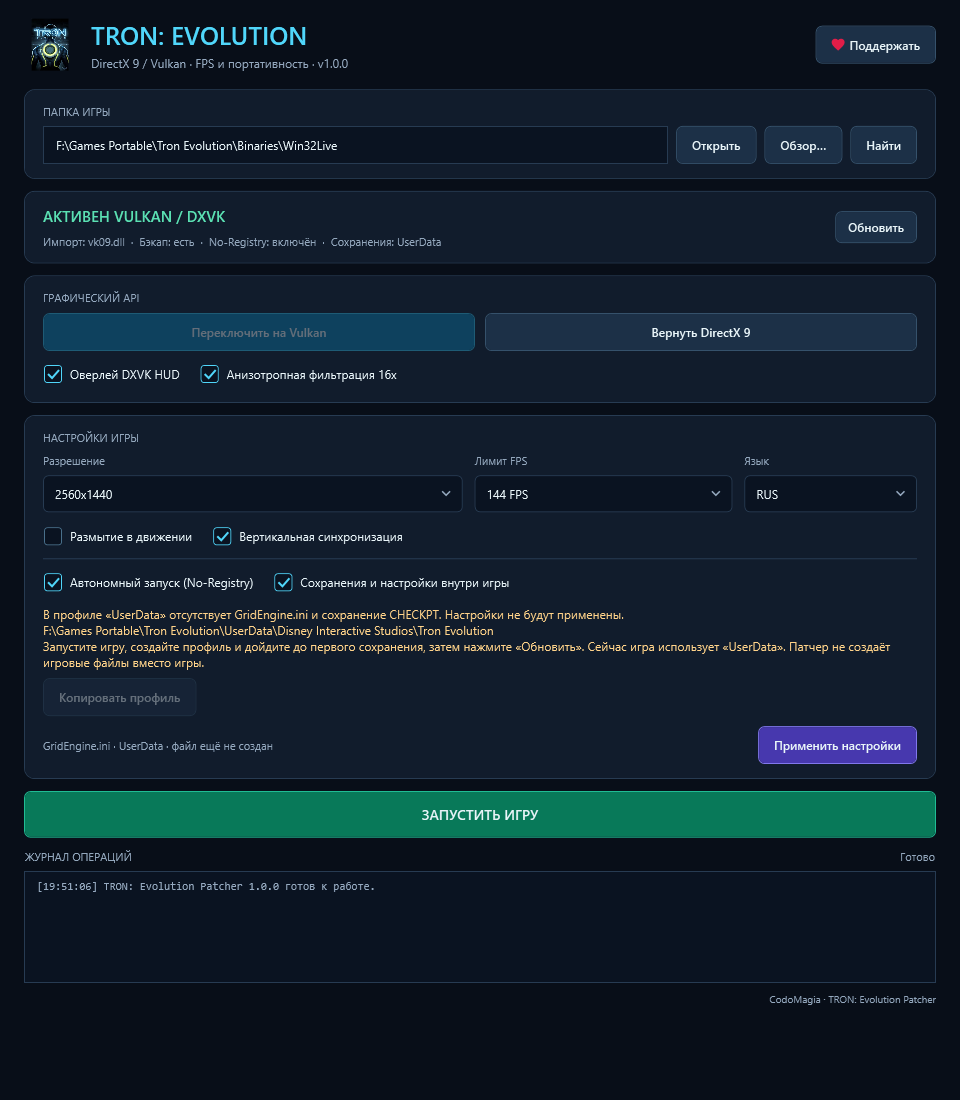
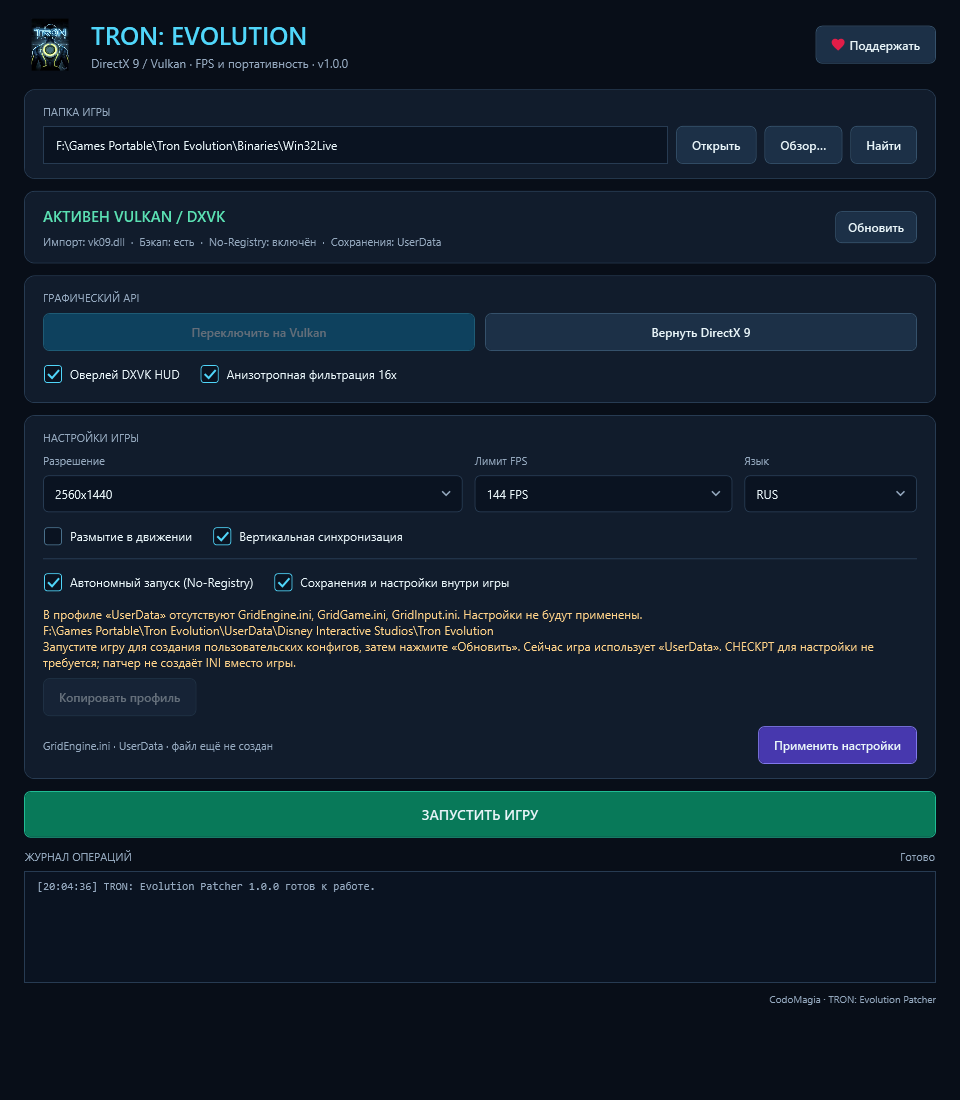
Allow game-created configuration before first checkpoint

Changed region(s): [[0.0625, 0.5564, 0.6875, 0.6182], [0.7812, 0.5873, 0.9062, 0.6182], [0.7188, 0.5873, 0.75, 0.6182]]

diff --git a/src/TronEvolutionPatcher/Services/GameProfileService.cs b/src/TronEvolutionPatcher/Services/GameProfileService.cs
@@ -31,11 +31,15 @@ namespace TronEvolutionPatcher.Services
             var result = new GameProfileStatus { DirectoryPath = profile };
             if (!Directory.Exists(profile)) return result;
             var engine = Path.Combine(profile, "UnrealEngine3", "GridGame", "Config", "GridEngine.ini");
+            var game = Path.Combine(Path.GetDirectoryName(engine), "GridGame.ini");
+            var input = Path.Combine(Path.GetDirectoryName(engine), "GridInput.ini");
             foreach (var path in Files(profile))
             {
                 result.ContainsFiles = true;
                 if (new FileInfo(path).Length == 0) continue;
                 if (string.Equals(path, engine, StringComparison.OrdinalIgnoreCase)) result.HasEngineIni = true;
+                if (string.Equals(path, game, StringComparison.OrdinalIgnoreCase)) result.HasGameIni = true;
+                if (string.Equals(path, input, StringComparison.OrdinalIgnoreCase)) result.HasInputIni = true;
                 if (string.Equals(Path.GetFileName(path), "CHECKPT", StringComparison.OrdinalIgnoreCase) &&
                     path.StartsWith(Path.Combine(profile, "SaveData") + Path.DirectorySeparatorChar, StringComparison.OrdinalIgnoreCase))
                     result.HasCheckpoint = true;
@@ -62,14 +66,12 @@ namespace TronEvolutionPatcher.Services
             var target = Inspect(directory, portable);
             if (target.IsInitialized) return;
             var source = Inspect(directory, !portable);
-            var missing = !target.HasEngineIni && !target.HasCheckpoint ? "GridEngine.ini и сохранение CHECKPT" :
-                !target.HasEngineIni ? "GridEngine.ini" : "сохранение CHECKPT";
-            var message = "Профиль не подготовлен: отсутствует " + missing + "." + Environment.NewLine + target.DirectoryPath;
+            var message = "Конфигурация профиля не подготовлена: отсутствуют " + MissingConfigurations(target) + "." + Environment.NewLine + target.DirectoryPath;
             if (source.IsInitialized)
                 message += Environment.NewLine + "В другом расположении найден профиль: " + source.DirectoryPath + Environment.NewLine +
                     (target.ContainsFiles ? "Целевая папка не пустая. Выберите существующий профиль или сохраните неполный профиль отдельно перед переносом. Профили не смешиваются." :
                     "Нажмите «Копировать профиль», затем повторите применение настроек.");
-            else message += Environment.NewLine + "Запустите игру, создайте профиль и дойдите до первого сохранения. Затем нажмите «Обновить». Патчер не создаёт игровые сохранения или пользовательские INI вместо игры.";
+            else message += Environment.NewLine + "Запустите игру и дождитесь создания пользовательских конфигов, затем нажмите «Обновить». Сохранение прогресса CHECKPT для настройки не требуется. Патчер не создаёт пользовательские INI вместо игры.";
             throw new IOException(message);
         }
 
@@ -77,7 +79,7 @@ namespace TronEvolutionPatcher.Services
         {
             var source = Inspect(directory, !toPortable);
             var target = Inspect(directory, toPortable);
-            if (!source.IsInitialized) throw new IOException("В исходной папке нет GridEngine.ini и непустого CHECKPT. Сначала создайте профиль в игре: " + source.DirectoryPath);
+            if (!source.IsInitialized) throw new IOException("В исходной папке не хватает пользовательских конфигов: " + MissingConfigurations(source) + ". Сначала запустите игру для их создания: " + source.DirectoryPath);
             if (target.ContainsFiles) throw new IOException("Целевой профиль не пустой. Копирование без смешивания и перезаписи невозможно: " + target.DirectoryPath);
             var migration = new PortableProfileMigration();
             var sourceRoot = Root(directory, !toPortable); var targetRoot = Root(directory, toPortable);
@@ -94,6 +96,15 @@ namespace TronEvolutionPatcher.Services
                 return result;
             }
             catch { ProfileDirectories.RemoveNewEmpty(created); throw; }
+        }
+
+        public static string MissingConfigurations(GameProfileStatus profile)
+        {
+            var missing = new List<string>();
+            if (!profile.HasEngineIni) missing.Add("GridEngine.ini");
+            if (!profile.HasGameIni) missing.Add("GridGame.ini");
+            if (!profile.HasInputIni) missing.Add("GridInput.ini");
+            return string.Join(", ", missing);
         }
     }
 }

diff --git a/tests/TronEvolutionPatcher.Tests/PatcherBackendTests.cs b/tests/TronEvolutionPatcher.Tests/PatcherBackendTests.cs
@@ -33,6 +33,8 @@ namespace TronEvolutionPatcher.Tests
             using (var temp = new TemporaryDirectory())
             {
                 var exe = temp.Write("Game/Binaries/Win32Live/GridGame.exe", PeFixture.Create());
+                temp.WriteText("Documents/" + Ini.Replace("GridEngine.ini", "GridGame.ini"), "game");
+                temp.WriteText("Documents/" + Ini.Replace("GridEngine.ini", "GridInput.ini"), "input");
                 var documents = temp.WriteText("Documents/" + Ini, "[SystemSettings]\nResX=1280");
                 temp.Write("Documents/Disney Interactive Studios/Tron Evolution/SaveData/profile/Save/CHECKPT", new byte[] { 1 });
                 var portable = temp.WriteText("Game/UserData/" + Ini, "[SystemSettings]\nResX=3840");
@@ -56,6 +58,8 @@ namespace TronEvolutionPatcher.Tests
                 var exe = temp.Write("Game/Binaries/Win32Live/GridGame.exe", PortablePeFixture.Create());
                 var directory = Path.GetDirectoryName(exe);
                 var backend = new PatcherBackend(temp.Root, Path.Combine(temp.Root, "Documents"));
+                temp.WriteText("Documents/" + Ini.Replace("GridEngine.ini", "GridGame.ini"), "game");
+                temp.WriteText("Documents/" + Ini.Replace("GridEngine.ini", "GridInput.ini"), "input");
                 var ini = temp.WriteText("Documents/" + Ini, "[SystemSettings]\nResX=1280");
                 temp.Write("Documents/Disney Interactive Studios/Tron Evolution/SaveData/profile/Save/CHECKPT", new byte[] { 1 });
                 using (var locked = new FileStream(ini, FileMode.Open, FileAccess.Read, FileShare.Read))
@@ -86,7 +90,7 @@ namespace TronEvolutionPatcher.Tests
                 var backend = new PatcherBackend(temp.Root, Path.Combine(temp.Root, "Documents"));
                 var error = Assert.Throws<IOException>(() => backend.ApplySettings(directory, new GameSettings(), true, true, false, false));
                 Assert.That(error.Message, Does.Contain("Проверка профиля"));
-                Assert.That(error.Message, Does.Contain("первого сохранения"));
+                Assert.That(error.Message, Does.Contain("создания пользовательских конфигов"));
                 Assert.That(PortableExecutablePatcherTests.Hash(File.ReadAllBytes(exe)), Is.EqualTo(PortableExecutablePatcherTests.Hash(original)));
                 Assert.That(File.Exists(Path.Combine(directory, GameStatusService.BackupName)), Is.False);
                 Assert.That(Directory.Exists(Path.Combine(temp.Root, "Game/UserData")), Is.EqualTo(partialIni));
@@ -102,6 +106,8 @@ namespace TronEvolutionPatcher.Tests
             {
                 var exe = temp.Write("Game/Binaries/Win32Live/GridGame.exe", PortablePeFixture.Create());
                 var directory = Path.GetDirectoryName(exe);
+                temp.WriteText("Documents/" + Ini.Replace("GridEngine.ini", "GridGame.ini"), "game");
+                temp.WriteText("Documents/" + Ini.Replace("GridEngine.ini", "GridInput.ini"), "input");
                 var sourceIni = temp.WriteText("Documents/" + Ini, "[SystemSettings]\nResX=1280");
                 var sourceSave = temp.Write("Documents/Disney Interactive Studios/Tron Evolution/SaveData/profile/Save/CHECKPT", new byte[] { 1, 2 });
                 var backend = new PatcherBackend(temp.Root, Path.Combine(temp.Root, "Documents"));
@@ -113,6 +119,24 @@ namespace TronEvolutionPatcher.Tests
                 Assert.That(backend.Load(directory).Status.UserDirectoryRedirected, Is.True);
                 Assert.That(File.ReadAllText(sourceIni), Does.Contain("ResX=1280"));
                 Assert.That(File.ReadAllBytes(sourceSave), Is.EqualTo(new byte[] { 1, 2 }));
+            }
+        }
+
+        [Test]
+        public void GameCreatedPortableConfigsAllowApplyWithoutAnyCheckpointOrSaveDirectory()
+        {
+            using (var temp = new TemporaryDirectory())
+            {
+                var bytes = PortableExecutablePatcher.Apply(PortablePeFixture.Create(), null, true);
+                var exe = temp.Write("Game/Binaries/Win32Live/GridGame.exe", bytes);
+                foreach (var name in new[] { "GridEngine.ini", "GridGame.ini", "GridInput.ini" })
+                    temp.WriteText("Game/UserData/" + Ini.Replace("GridEngine.ini", name), "[SystemSettings]\nResX=1280");
+                var backend = new PatcherBackend(temp.Root, Path.Combine(temp.Root, "Documents"));
+                var directory = Path.GetDirectoryName(exe);
+                Assert.That(backend.Load(directory).PortableProfile.HasCheckpoint, Is.False);
+                Assert.DoesNotThrow(() => backend.ApplySettings(directory, new GameSettings(), false, true, false, false));
+                Assert.That(File.ReadAllText(Path.Combine(temp.Root, "Game/UserData/" + Ini)), Does.Contain("ResX=1920"));
+                Assert.That(Directory.Exists(Path.Combine(temp.Root, "Game/UserData/Disney Interactive Studios/Tron Evolution/SaveData")), Is.False);
             }
         }
 

diff --git a/tests/TronEvolutionPatcher.Tests/GameProfileServiceTests.cs b/tests/TronEvolutionPatcher.Tests/GameProfileServiceTests.cs
@@ -18,21 +18,25 @@ namespace TronEvolutionPatcher.Tests
         [TestCase(true, false)]
         [TestCase(false, true)]
         [TestCase(true, true)]
-        public void ReadinessRequiresBothUserIniAndNonEmptyCheckpoint(bool ini, bool checkpoint)
+        public void ReadinessRequiresGameGeneratedConfigurationButNotGameplayCheckpoint(bool ini, bool checkpoint)
         {
             using (var temp = new TemporaryDirectory())
             {
-                if (ini) temp.WriteText("Documents/" + Ini, "[SystemSettings]\nResX=1280");
+                if (ini) {
+                    temp.WriteText("Documents/" + Ini, "[SystemSettings]\nResX=1280");
+                    temp.WriteText("Documents/" + Ini.Replace("GridEngine.ini", "GridGame.ini"), "game");
+                    temp.WriteText("Documents/" + Ini.Replace("GridEngine.ini", "GridInput.ini"), "input");
+                }
                 if (checkpoint) temp.Write("Documents/" + Save, new byte[] { 3, 4 });
                 var profile = Service(temp).Inspect(DirectoryFor(temp), false);
-                Assert.That(profile.IsInitialized, Is.EqualTo(ini && checkpoint));
+                Assert.That(profile.IsInitialized, Is.EqualTo(ini));
                 if (!profile.IsInitialized)
                     Assert.Throws<IOException>(() => Service(temp).RequireInitialized(DirectoryFor(temp), false));
             }
         }
 
         [Test]
-        public void EmptySaveAndKeyBindingsAloneAreNotAnExistingSavedGame()
+        public void KeyBindingsAndSingleEngineIniDoNotReplaceMissingConfiguration()
         {
             using (var temp = new TemporaryDirectory())
             {
@@ -52,6 +56,7 @@ namespace TronEvolutionPatcher.Tests
                 var source = toPortable ? "Documents/" : "Game/UserData/";
                 var target = toPortable ? "Game/UserData/" : "Documents/";
                 var exe = temp.Write("Game/Binaries/Win32Live/GridGame.exe", new byte[] { 9, 8, 7 });
+                temp.WriteText(source + Ini.Replace("GridEngine.ini", "GridGame.ini"), "game");
                 var ini = temp.WriteText(source + Ini, "[SystemSettings]\nResX=1280");
                 var save = temp.Write(source + Save, new byte[] { 1, 2, 3 });
                 temp.WriteText(source + Profile + "UnrealEngine3/GridGame/Config/GridInput.ini", "input settings");
@@ -65,10 +70,28 @@ namespace TronEvolutionPatcher.Tests
         }
 
         [Test]
+        public void ConfigurationCanBeCopiedBeforeFirstGameplayCheckpoint()
+        {
+            using (var temp = new TemporaryDirectory())
+            {
+                System.IO.Directory.CreateDirectory(DirectoryFor(temp));
+                foreach (var name in new[] { "GridEngine.ini", "GridGame.ini", "GridInput.ini" })
+                    temp.WriteText("Documents/" + Ini.Replace("GridEngine.ini", name), "game-generated config");
+                Service(temp).Copy(DirectoryFor(temp), true);
+                var target = Service(temp).Inspect(DirectoryFor(temp), true);
+                Assert.That(target.IsInitialized, Is.True);
+                Assert.That(target.HasCheckpoint, Is.False);
+                Assert.That(File.Exists(Path.Combine(temp.Root, "Game/UserData/" + Save)), Is.False);
+            }
+        }
+
+        [Test]
         public void IncompleteNonEmptyTargetIsNotMixedOrOverwritten()
         {
             using (var temp = new TemporaryDirectory())
             {
+                temp.WriteText("Documents/" + Ini.Replace("GridEngine.ini", "GridGame.ini"), "game");
+                temp.WriteText("Documents/" + Ini.Replace("GridEngine.ini", "GridInput.ini"), "input");
                 temp.WriteText("Documents/" + Ini, "source"); temp.Write("Documents/" + Save, new byte[] { 1 });
                 var target = temp.WriteText("Game/UserData/" + Ini, "old partial config");
                 Assert.Throws<IOException>(() => Service(temp).Copy(DirectoryFor(temp), true));
@@ -95,6 +118,8 @@ namespace TronEvolutionPatcher.Tests
         {
             using (var temp = new TemporaryDirectory())
             {
+                temp.WriteText("Documents/" + Ini.Replace("GridEngine.ini", "GridGame.ini"), "game");
+                temp.WriteText("Documents/" + Ini.Replace("GridEngine.ini", "GridInput.ini"), "input");
                 var source = temp.WriteText("Documents/" + Ini, "source config");
                 temp.Write("Documents/" + Save, new byte[] { 1 });
                 System.IO.Directory.CreateDirectory(Path.Combine(temp.Root, "Game"));

diff --git a/tests/TronEvolutionPatcher.Tests/MainViewModelTests.cs b/tests/TronEvolutionPatcher.Tests/MainViewModelTests.cs
@@ -59,7 +59,7 @@ namespace TronEvolutionPatcher.Tests
             {
                 CopyProfileCalls++; CopiedToPortable = toPortable;
                 var target = toPortable ? Current.PortableProfile : Current.DocumentsProfile;
-                target.HasEngineIni = true; target.HasCheckpoint = true; target.ContainsFiles = true;
+                target.HasEngineIni = true; target.HasGameIni = true; target.HasInputIni = true; target.HasCheckpoint = true; target.ContainsFiles = true;
                 return new[] { "Профиль скопирован." };
             }
         }
@@ -220,11 +220,24 @@ namespace TronEvolutionPatcher.Tests
         }
 
         [Test]
+        public async Task CompleteGameConfigurationWithoutCheckpointDoesNotShowMissingProfileWarning()
+        {
+            var backend = new FakeBackend();
+            backend.Current.DocumentsProfile = new GameProfileStatus
+            { HasEngineIni = true, HasGameIni = true, HasInputIni = true, ContainsFiles = true };
+            backend.Current.PortableProfile = new GameProfileStatus();
+            var model = await Loaded(backend);
+            Assert.That(model.ProfileNotice, Is.Empty);
+            Assert.That(model.ApplyCommand.CanExecute(null), Is.True);
+            Assert.That(model.CopyProfileCommand.CanExecute(null), Is.False);
+        }
+
+        [Test]
         public async Task MissingProfileOffersCurrentGameLaunchAndExplicitCopyToSelectedLocation()
         {
             var backend = new FakeBackend();
             backend.Current.DocumentsProfile = new GameProfileStatus
-            { DirectoryPath = @"C:\Documents\Profile", HasEngineIni = true, HasCheckpoint = true, ContainsFiles = true };
+            { DirectoryPath = @"C:\Documents\Profile", HasEngineIni = true, HasGameIni = true, HasInputIni = true, HasCheckpoint = true, ContainsFiles = true };
             backend.Current.PortableProfile = new GameProfileStatus { DirectoryPath = @"C:\Game\UserData\Profile" };
             var model = await Loaded(backend);
             Assert.That(model.ProfileNotice, Is.Empty);
@@ -248,10 +261,12 @@ namespace TronEvolutionPatcher.Tests
             backend.Current.DocumentsProfile = new GameProfileStatus { DirectoryPath = "Documents" };
             backend.Current.PortableProfile = new GameProfileStatus { DirectoryPath = "UserData" };
             var model = await Loaded(backend);
-            Assert.That(model.ProfileNotice, Does.Contain("первого сохранения"));
+            Assert.That(model.ProfileNotice, Does.Contain("пользовательских конфигов"));
             Assert.That(model.CopyProfileCommand.CanExecute(null), Is.False);
             Assert.That(model.LaunchCommand.CanExecute(null), Is.True);
             backend.Current.DocumentsProfile.HasEngineIni = true;
+            backend.Current.DocumentsProfile.HasGameIni = true;
+            backend.Current.DocumentsProfile.HasInputIni = true;
             backend.Current.DocumentsProfile.HasCheckpoint = true;
             backend.Current.PortableProfile.ContainsFiles = true;
             model.UserDirectory = true;

diff --git a/src/TronEvolutionPatcher/ViewModels/MainViewModel.cs b/src/TronEvolutionPatcher/ViewModels/MainViewModel.cs
@@ -128,15 +128,14 @@ namespace TronEvolutionPatcher.ViewModels
                 var target = SelectedProfile;
                 if (target == null || target.IsInitialized) return "";
                 var location = UserDirectory ? "UserData" : "Документы";
-                var missing = !target.HasEngineIni && !target.HasCheckpoint ? "GridEngine.ini и сохранение CHECKPT" :
-                    !target.HasEngineIni ? "GridEngine.ini" : "сохранение CHECKPT";
-                var text = "В профиле «" + location + "» отсутствует " + missing + ". Настройки не будут применены.\n" + target.DirectoryPath;
+                var missing = GameProfileService.MissingConfigurations(target);
+                var text = "В профиле «" + location + "» отсутствуют " + missing + ". Настройки не будут применены.\n" + target.DirectoryPath;
                 if (OtherProfile?.IsInitialized == true)
                     return text + "\nНайден другой профиль: " + OtherProfile.DirectoryPath +
                         (target.ContainsFiles ? "\nЦелевая папка не пустая: выберите существующий профиль или сохраните неполный профиль отдельно перед копированием. Перезапись и смешивание отключены." :
                         "\nНажмите «Копировать профиль»: источник останется на месте. Затем примените настройки.");
-                return text + "\nЗапустите игру, создайте профиль и дойдите до первого сохранения, затем нажмите «Обновить». Сейчас игра использует «" +
-                    (snapshot.Status.UserDirectoryRedirected ? "UserData" : "Документы") + "». Патчер не создаёт игровые файлы вместо игры.";
+                return text + "\nЗапустите игру для создания пользовательских конфигов, затем нажмите «Обновить». Сейчас игра использует «" +
+                    (snapshot.Status.UserDirectoryRedirected ? "UserData" : "Документы") + "». CHECKPT для настройки не требуется; патчер не создаёт INI вместо игры.";
             }
         }
         public bool HudEnabled { get => hud; set { if (Set(ref hud, value)) QueueDxvkUpdate(); } }

diff --git a/src/TronEvolutionPatcher/Models/GameProfileStatus.cs b/src/TronEvolutionPatcher/Models/GameProfileStatus.cs
@@ -4,8 +4,10 @@ namespace TronEvolutionPatcher.Models
     {
         public string DirectoryPath { get; internal set; }
         public bool HasEngineIni { get; internal set; }
+        public bool HasGameIni { get; internal set; }
+        public bool HasInputIni { get; internal set; }
         public bool HasCheckpoint { get; internal set; }
         public bool ContainsFiles { get; internal set; }
-        public bool IsInitialized => HasEngineIni && HasCheckpoint;
+        public bool IsInitialized => HasEngineIni && HasGameIni && HasInputIni;
     }
 }

diff --git a/docs/GAME_PROFILES.md b/docs/GAME_PROFILES.md
@@ -8,22 +8,21 @@
 
 Для применения настроек выбранный профиль должен содержать:
 
-- Непустой `UnrealEngine3/GridGame/Config/GridEngine.ini`.
-- Непустой файл `CHECKPT` внутри `SaveData`.
+- Непустые пользовательские `GridEngine.ini`, `GridGame.ini` и `GridInput.ini` в `UnrealEngine3/GridGame/Config`.
 
-Клавиатурные настройки и пустой CHECKPT не заменяют сохранение. Проверка наличия не является полной проверкой бинарного формата или пригодности профиля для конкретной сборки игры. Патчер не утверждает, что профиль исправен только по этим признакам.
+Сохранение прогресса `CHECKPT` не требуется для применения настроек: после первого запуска конфиги уже могут существовать, а прогресса ещё нет. Наличие CHECKPT учитывается отдельно и не блокирует применение или копирование конфигурации. Один GridEngine.ini без остальных пользовательских конфигов по-прежнему считается неполной конфигурацией. Проверка наличия не является полной проверкой бинарного формата или пригодности профиля для конкретной сборки игры. Патчер не утверждает, что профиль исправен только по этим признакам.
 
-Проверка повторяется непосредственно перед применением, до записи No-Registry/UserData, INI и DXVK. Удаление сохранения после загрузки окна также блокирует последующее применение. Состояние двух профилей показывается в предупреждении; выбор галочки UserData меняет назначение проверки и копирования.
+Проверка повторяется непосредственно перед применением, до записи No-Registry/UserData, INI и DXVK. Удаление необходимых конфигов после загрузки окна также блокирует последующее применение; удаление только игрового прогресса не блокирует настройку. Состояние двух профилей показывается в предупреждении; выбор галочки UserData меняет назначение проверки и копирования.
 
 ## Если профиля нет
 
-Запустите игру обычной кнопкой запуска, создайте профиль и дойдите до первого сохранения. Затем нажмите «Обновить». Игра запускается с фактически действующим расположением профиля: ещё не применённая галочка UserData его не переключает. Патчер показывает, какое расположение использует игра сейчас.
+Запустите игру обычной кнопкой запуска, дождитесь создания пользовательских конфигов (обычно при первом запуске). Затем нажмите «Обновить». Игра запускается с фактически действующим расположением профиля: ещё не применённая галочка UserData его не переключает. Патчер показывает, какое расположение использует игра сейчас.
 
 При желании после создания профиля можно скопировать его в другое расположение и применить редирект. Переключение рендера остаётся отдельной операцией; автоматического запуска игры, восстановления архива или перезаписи неполного профиля нет.
 
 ## Явное копирование
 
-Кнопка «Копировать профиль» доступна, когда другое расположение содержит INI и CHECKPT, а выбранное назначение не содержит файлов. Направление задаётся галочкой «Сохранения и настройки внутри игры»: включена — из «Документов» в UserData, выключена — обратно.
+Кнопка «Копировать профиль» доступна, когда другое расположение содержит три пользовательских конфига, а выбранное назначение не содержит файлов. Направление задаётся галочкой «Сохранения и настройки внутри игры»: включена — из «Документов» в UserData, выключена — обратно.
 
 Копируются файлы верхнего уровня Config и дерево SaveData. Источник остаётся на месте, его атрибуты и содержимое не меняются. Само копирование не патчит EXE и не применяет настройки. После него нажмите «Применить настройки».
 

diff --git a/docs/PORTABLE_PATCHES.md b/docs/PORTABLE_PATCHES.md
@@ -51,7 +51,7 @@ UserData: требуется расположение `Binaries/Win32Live/GridGa
 - SaveData: дерево целиком, включая пустые каталоги, копируется только в пустое назначение.
   Если в SaveData уже есть хотя бы один файл или каталог, всё исходное дерево сохранений пропускается.
   Это предотвращает смешивание профилей; отсутствующие файлы внутрь существующего профиля не добавляются.
-- Низкоуровневый PortablePatchService может подготовить пустые каталоги, но интерфейс теперь проверяет профиль до вызова этого сервиса: без пользовательского INI и сохранения CHECKPT применение настроек блокируется. Перенос между расположениями выполняется отдельной кнопкой; см. [GAME_PROFILES.md](GAME_PROFILES.md).
+- Низкоуровневый PortablePatchService может подготовить пустые каталоги, но интерфейс теперь проверяет профиль до вызова этого сервиса: без пользовательских GridEngine.ini, GridGame.ini и GridInput.ini применение настроек блокируется. Перенос между расположениями выполняется отдельной кнопкой; см. [GAME_PROFILES.md](GAME_PROFILES.md).
 - Исходные файлы не удаляются и не изменяются. Для новых копий сохраняются LastWriteTimeUtc
   и поддерживаемые атрибуты ReadOnly, Hidden, System, Archive, NotContentIndexed.
   ACL, альтернативные потоки NTFS, шифрование и сжатие не переносятся.

diff --git a/docs/WPF_INTERFACE.md b/docs/WPF_INTERFACE.md
@@ -15,7 +15,7 @@
 - Разрешение и FPS с пресетами и произвольным вводом, RUS/INT и другие трёхбуквенные коды языка,
   Motion Blur, VSync, No-Registry, UserData, применение настроек, запуск игры и ссылка поддержки.
 - Баннер ошибок и выделяемый журнал с временем последних 200 записей.
-- Проверка наличия пользовательского INI и CHECKPT, предупреждение до записи и отдельное копирование профиля между «Документами» и UserData без перезаписи. См. [GAME_PROFILES.md](GAME_PROFILES.md).
+- Проверка наличия пользовательских GridEngine.ini, GridGame.ini и GridInput.ini, предупреждение до записи и отдельное копирование профиля между «Документами» и UserData без перезаписи. См. [GAME_PROFILES.md](GAME_PROFILES.md).
 
 Окно имеет прокрутку и поддерживает уменьшение до 760×560. Обычное закрытие блокируется на время операции записи;
 сообщение об этом добавляется в журнал без дополнительного подтверждения.
